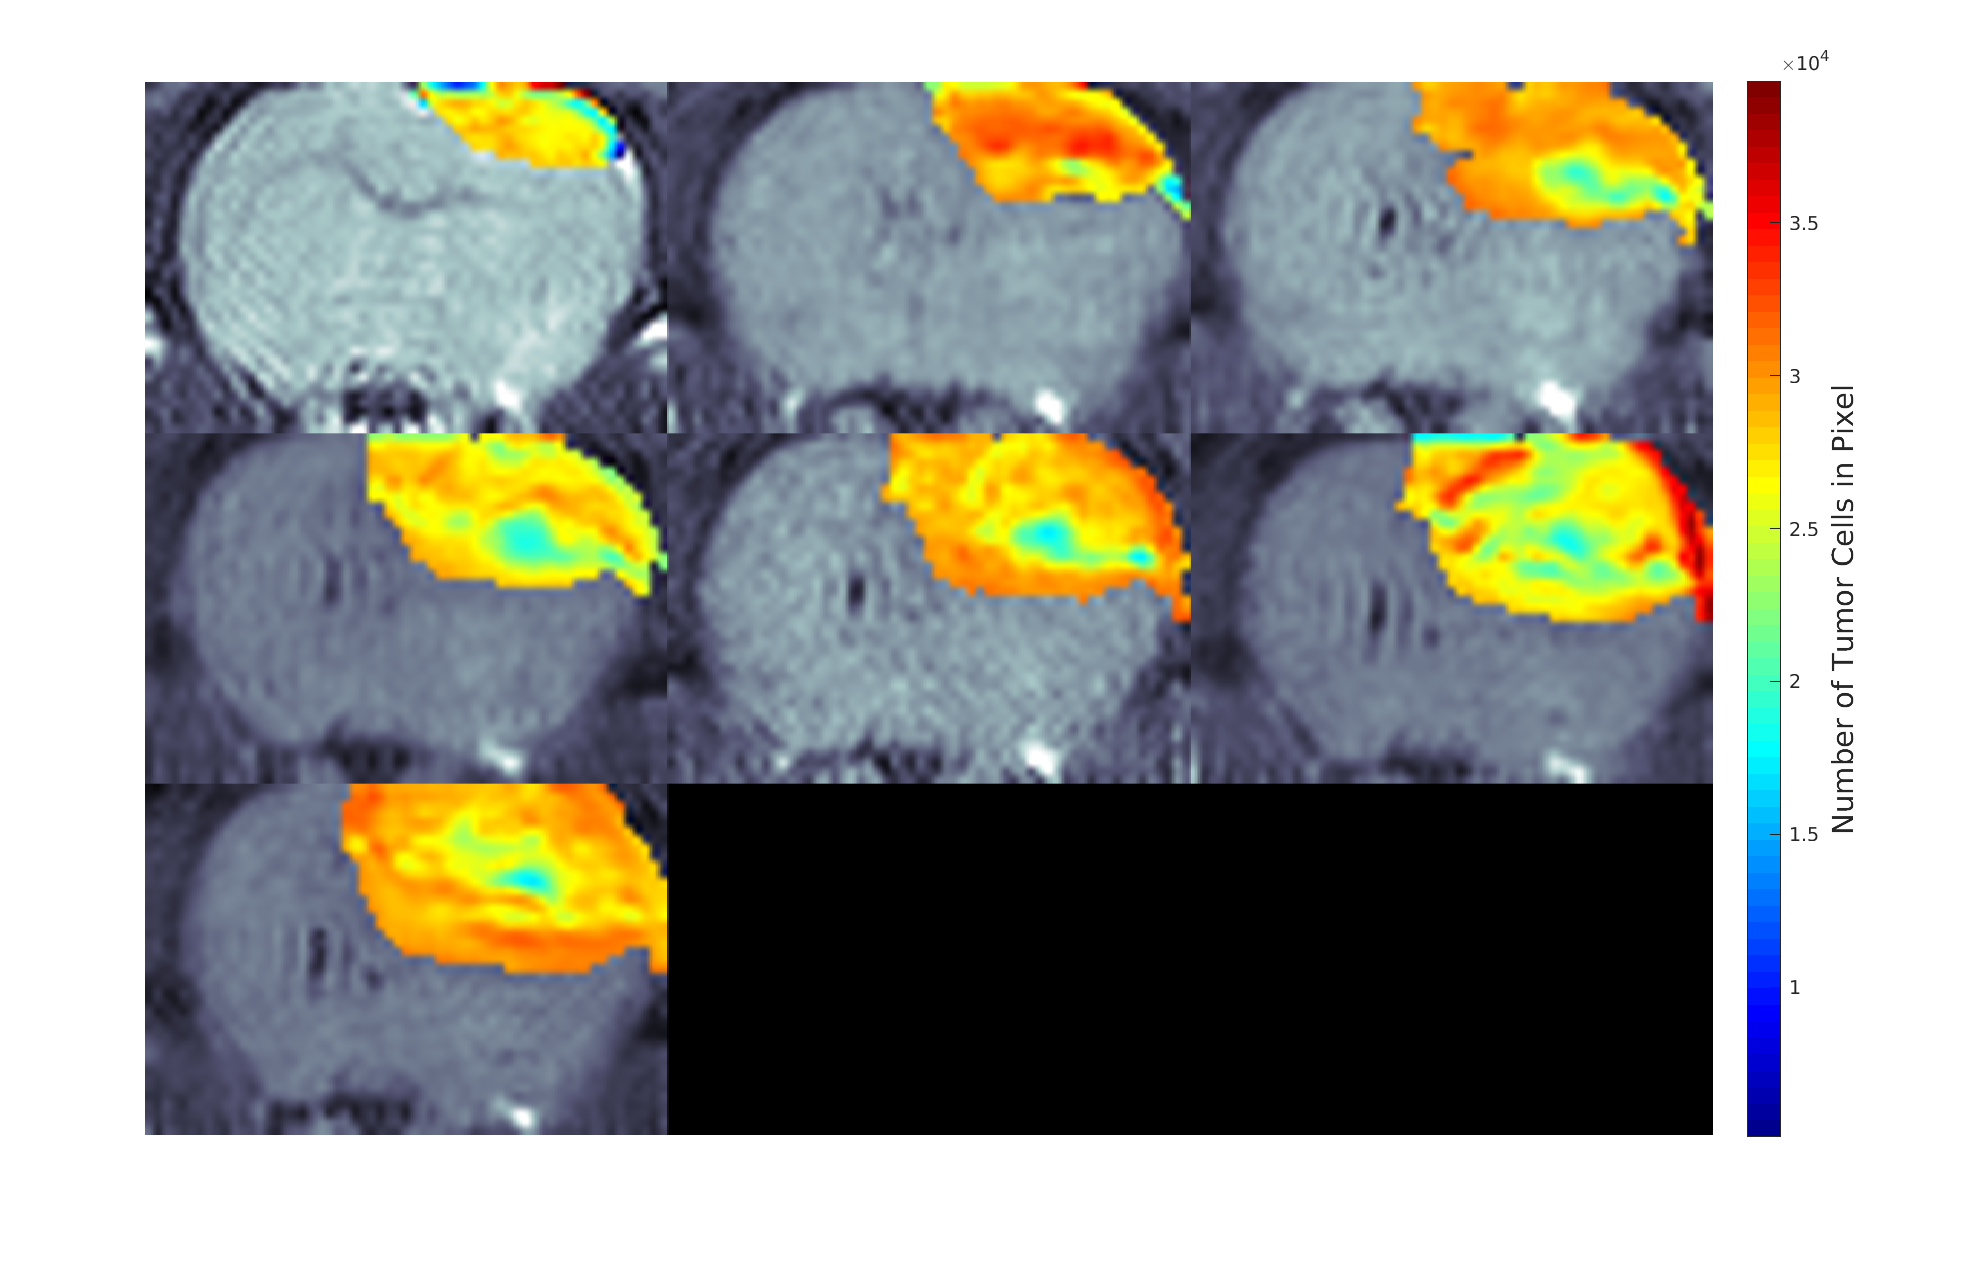
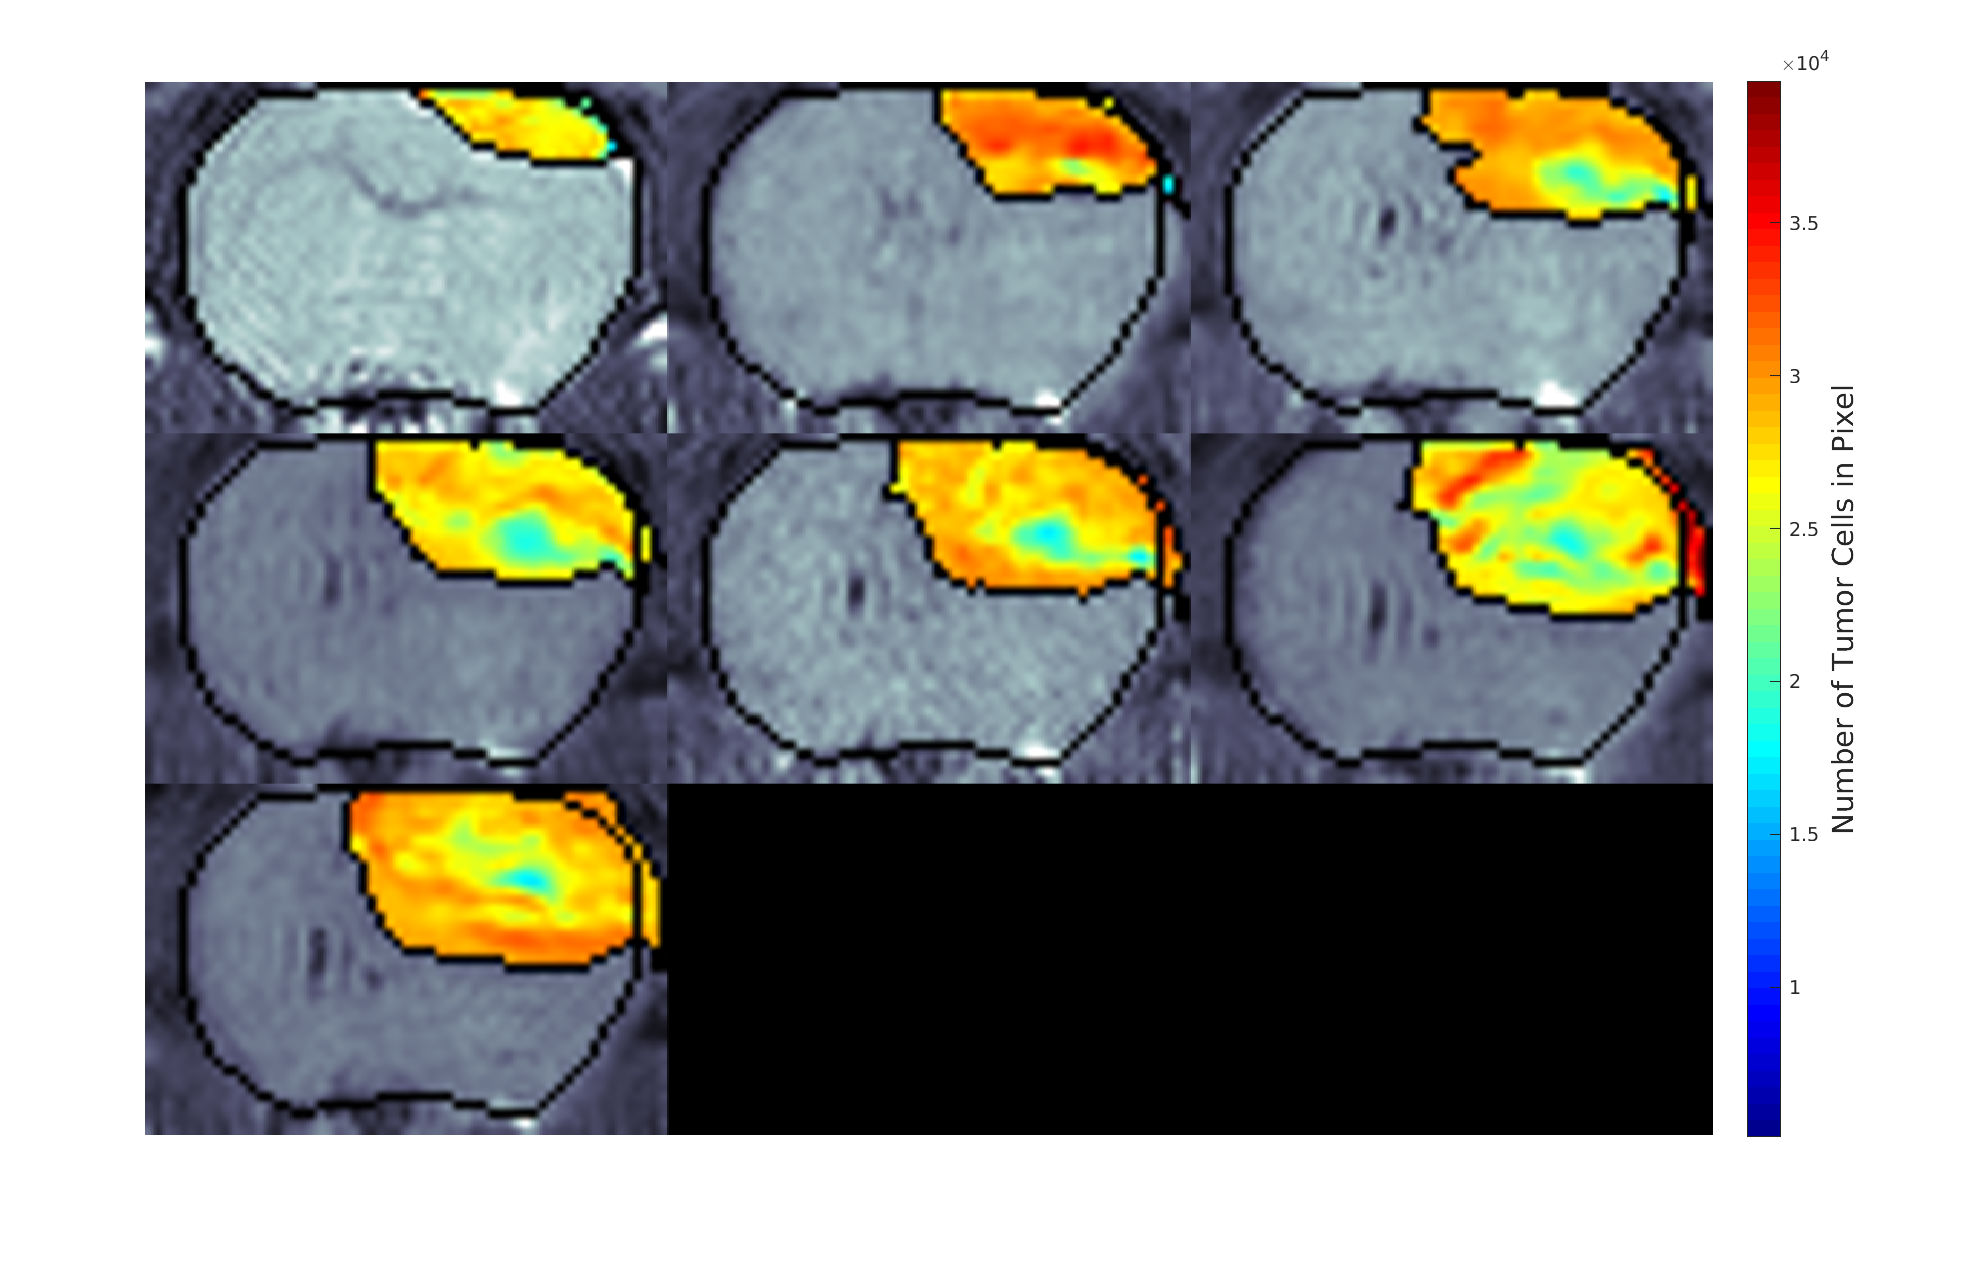
Updated montages and other data imageages

diff --git a/mouse-data/plotdata.m b/mouse-data/plotdata.m
@@ -1,7 +1,7 @@
 close all
 filesNums = {'01','02','05','06','09','12'};
-rat = struct('tslices',[],'area',[],'skulls',{},'initial',[],'time',[],...
-    'sbound',{},'tbound',{},'meancells',[],'meanarea',[],'maxlayer',[]);
+rat = struct('tslices',[],'area',[],'initial',[],'time',[],...
+    'sbound',{},'tbound',{},'meanarea',[],'maxlayer',[]);
 
 %% Number of cells in slice z at time t
 close all
@@ -18,16 +18,22 @@ for n = 1:length(filesNums)
     % Number of tumor cells vs time
     sumSlices = sum(rat(n).tslices,2);
     plot(time,sumSlices,'o-','Linewidth',2); hold on
-    xlabel('time (days)','FontSize',14)
-    ylabel('Number of Tumor Cells','FontSize',14)
-    legend(filesNums,'Location','Northwest','FontSize',14);
 end
+xlabel('time (days)','FontSize',14)
+ylabel('Number of Tumor Cells','FontSize',14)
+legend(filesNums,'Location','Northwest','FontSize',14);
 set(get(legend,'Title'),'String','Rat ID')
 saveas(gcf,'images/numtumorcells','png');
 %% Time
 for n = 1:length(filesNums)
     load(strcat('W',filesNums{n},'_model_data.mat'));
     rat(n).time = time;
+end
+%% Initial condition based on max initial count
+for n = 1:length(filesNums)
+    load(strcat('W',filesNums{n},'_model_data.mat'));
+    [~,rat(n).maxlayer] = max(rat(n).tslices(1,:));  % Slice with most cells
+    rat(n).initial = cells(:,:,rat(n).maxlayer,1);   % Initial value
 end
 %% Area
 close all
@@ -41,12 +47,23 @@ for n = 1:length(filesNums)
             rat(n).area(t,z) = a;
         end
     end
-    sumArea = sum(rat(n).area,2);
-    plot(time,sumArea,'o-','Linewidth',2); hold on
-    xlabel('time (days)','FontSize',14)
-    ylabel('# of Voxels with Tumor Cells)','FontSize',14)
-    legend(filesNums,'Location','Northwest','FontSize',14);
+    area = rat(n).area(:,rat(n).maxlayer);
+    plot(rat(n).time,area,'o-','Linewidth',2); hold on
 end
+xlabel('time (days)','FontSize',14)
+ylabel('# of Voxels with Tumor Cells)','FontSize',14)
+legend(filesNums,'Location','Northwest','FontSize',14);
+set(get(legend,'Title'),'String','Rat ID')
+saveas(gcf,'images/areatumorcells','png');
+%% Volume
+close all
+for n = 1:length(filesNums)
+    volume = sum(rat(n).area,2);
+    plot(rat(n).time,volume,'o-','Linewidth',2); hold on
+end
+xlabel('time (days)','FontSize',14)
+ylabel('# of Voxels with Tumor Cells)','FontSize',14)
+legend(filesNums,'Location','Northwest','FontSize',14);
 set(get(legend,'Title'),'String','Rat ID')
 saveas(gcf,'images/voxtumorcells','png');
 %% Boundaries
@@ -65,30 +82,23 @@ for n = 1:length(filesNums)
         rat(n).tbound{t} = [col(k) 41-row(k)];
     end
 end
-%% Initial condition based on max initial count
-for n = 1:length(filesNums)
-    load(strcat('W',filesNums{n},'_model_data.mat'));
-    days = size(cells,4);
-    [~,rat(n).maxlayer] = max(rat(n).tslices(1,:));  % Slice with most cells
-    rat(n).initial = cells(:,:,rat(n).maxlayer,1);   % Initial value
-end
-
 %% Montages
-for n = 1%:length(filesNums)
+for n = 1:length(filesNums)
     close all
     load(strcat('W',filesNums{n},'_model_data.mat'));
     days = size(cells,4);
-    tumor = cells(:,:,rat(n).maxlayer,:); % Slice with most cells
+    z = rat(n).maxlayer;
+    tumor = cells(:,:,z,:); % Slice with most cells
     mincell = min(tumor(tumor>0));  maxcell = max(max(max(max(tumor))));
     imds = [];
     for t = 1:days
         % Turn data into RGB for layering on brain
-        tumor = cells(:,:,maxlayer,t);
+        tumor = cells(:,:,z,t);
         [B,~] = real2rgb(tumor,'jet',[mincell maxcell]);
         B3 = B(:,:,3); B3(tumor==0) = 0; B(:,:,3) = B3;
         
         % Turn off brain data where tumor goes, convert to RGB
-        brain = anatomical(:,:,maxlayer,t);
+        brain = anatomical(:,:,z,t);
         [C,~] = real2rgb(brain,'bone',[0 45]);
         t3 = [tumor tumor tumor]; t3 = reshape(t3,41,61,3);
         C(t3 > 0 ) = 0;
@@ -109,7 +119,7 @@ for n = 1%:length(filesNums)
         
         % Add images together and cat for montage
         D = B+C;
-        D(sout) = 1;
+        D(sout) = 0;
         imds = cat(4,imds,D);
     end
     montage(imds,'Size',[NaN 3]); hold on
@@ -118,6 +128,7 @@ for n = 1%:length(filesNums)
     caxis([mincell maxcell]); colormap jet;
     saveas(gcf,strcat('images/Montage',filesNums{n}),'png');
 end
+%% Test Mean
 
 %% Last
 % for n = 1:length(filesNums)
